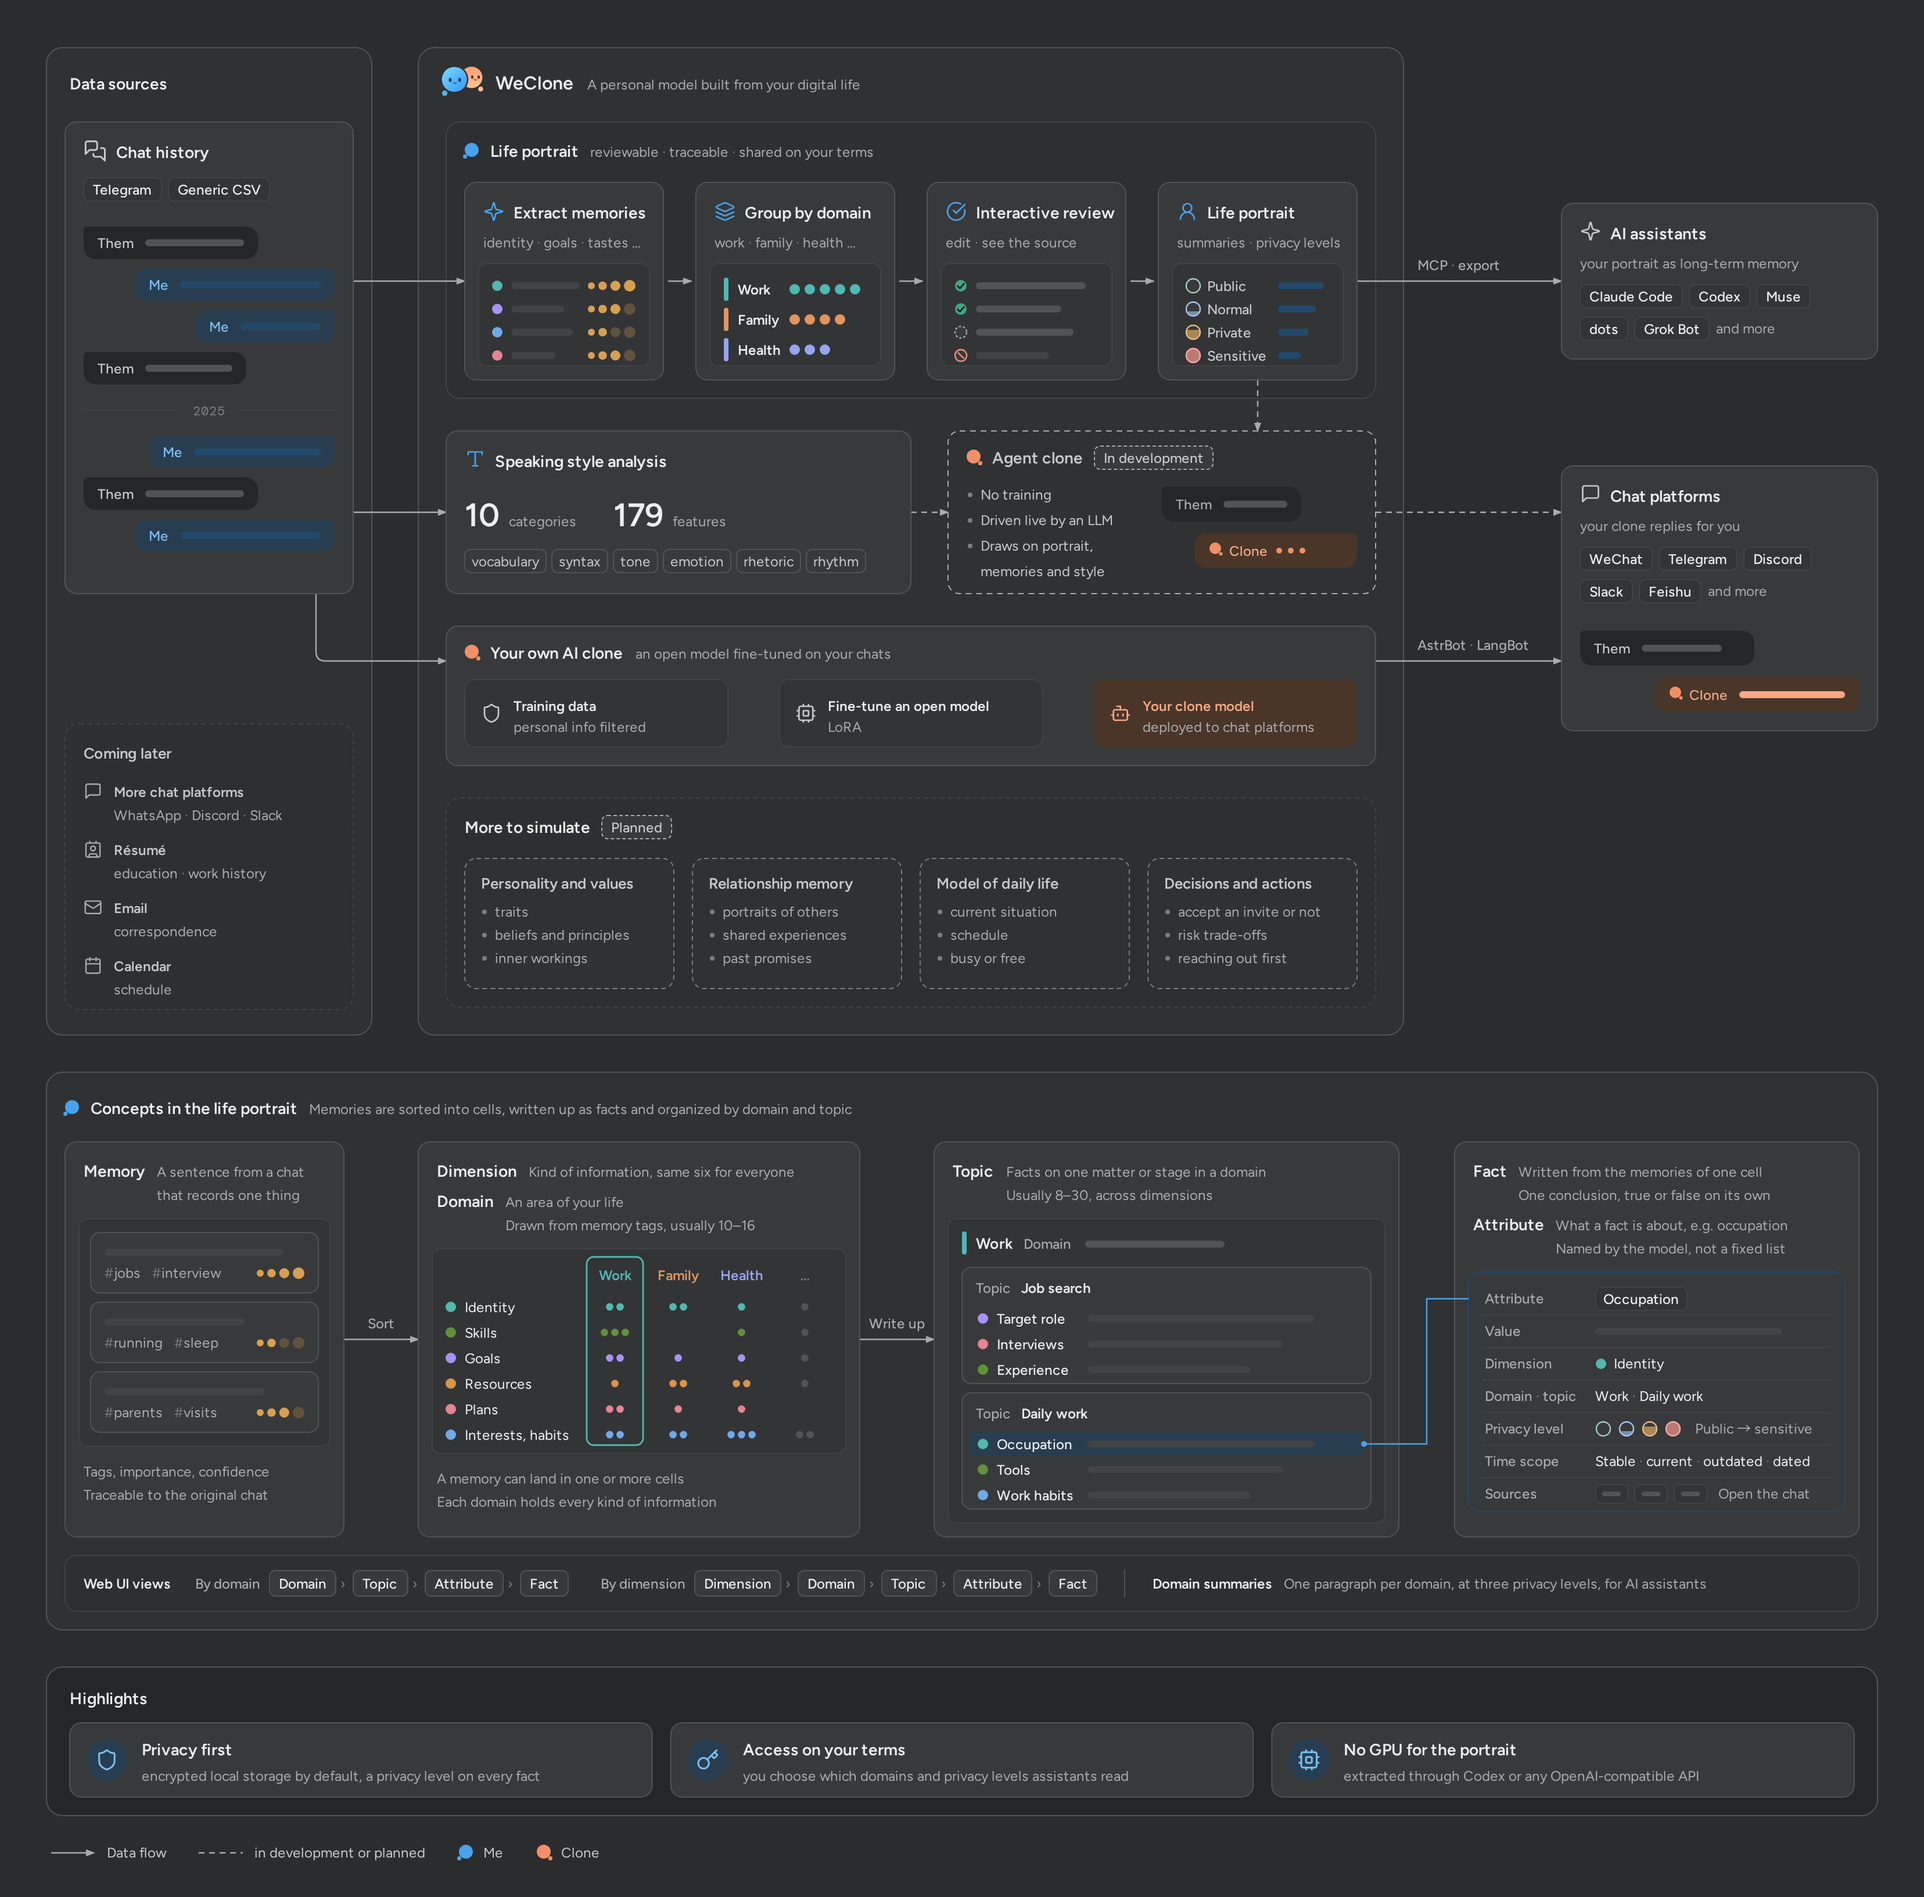
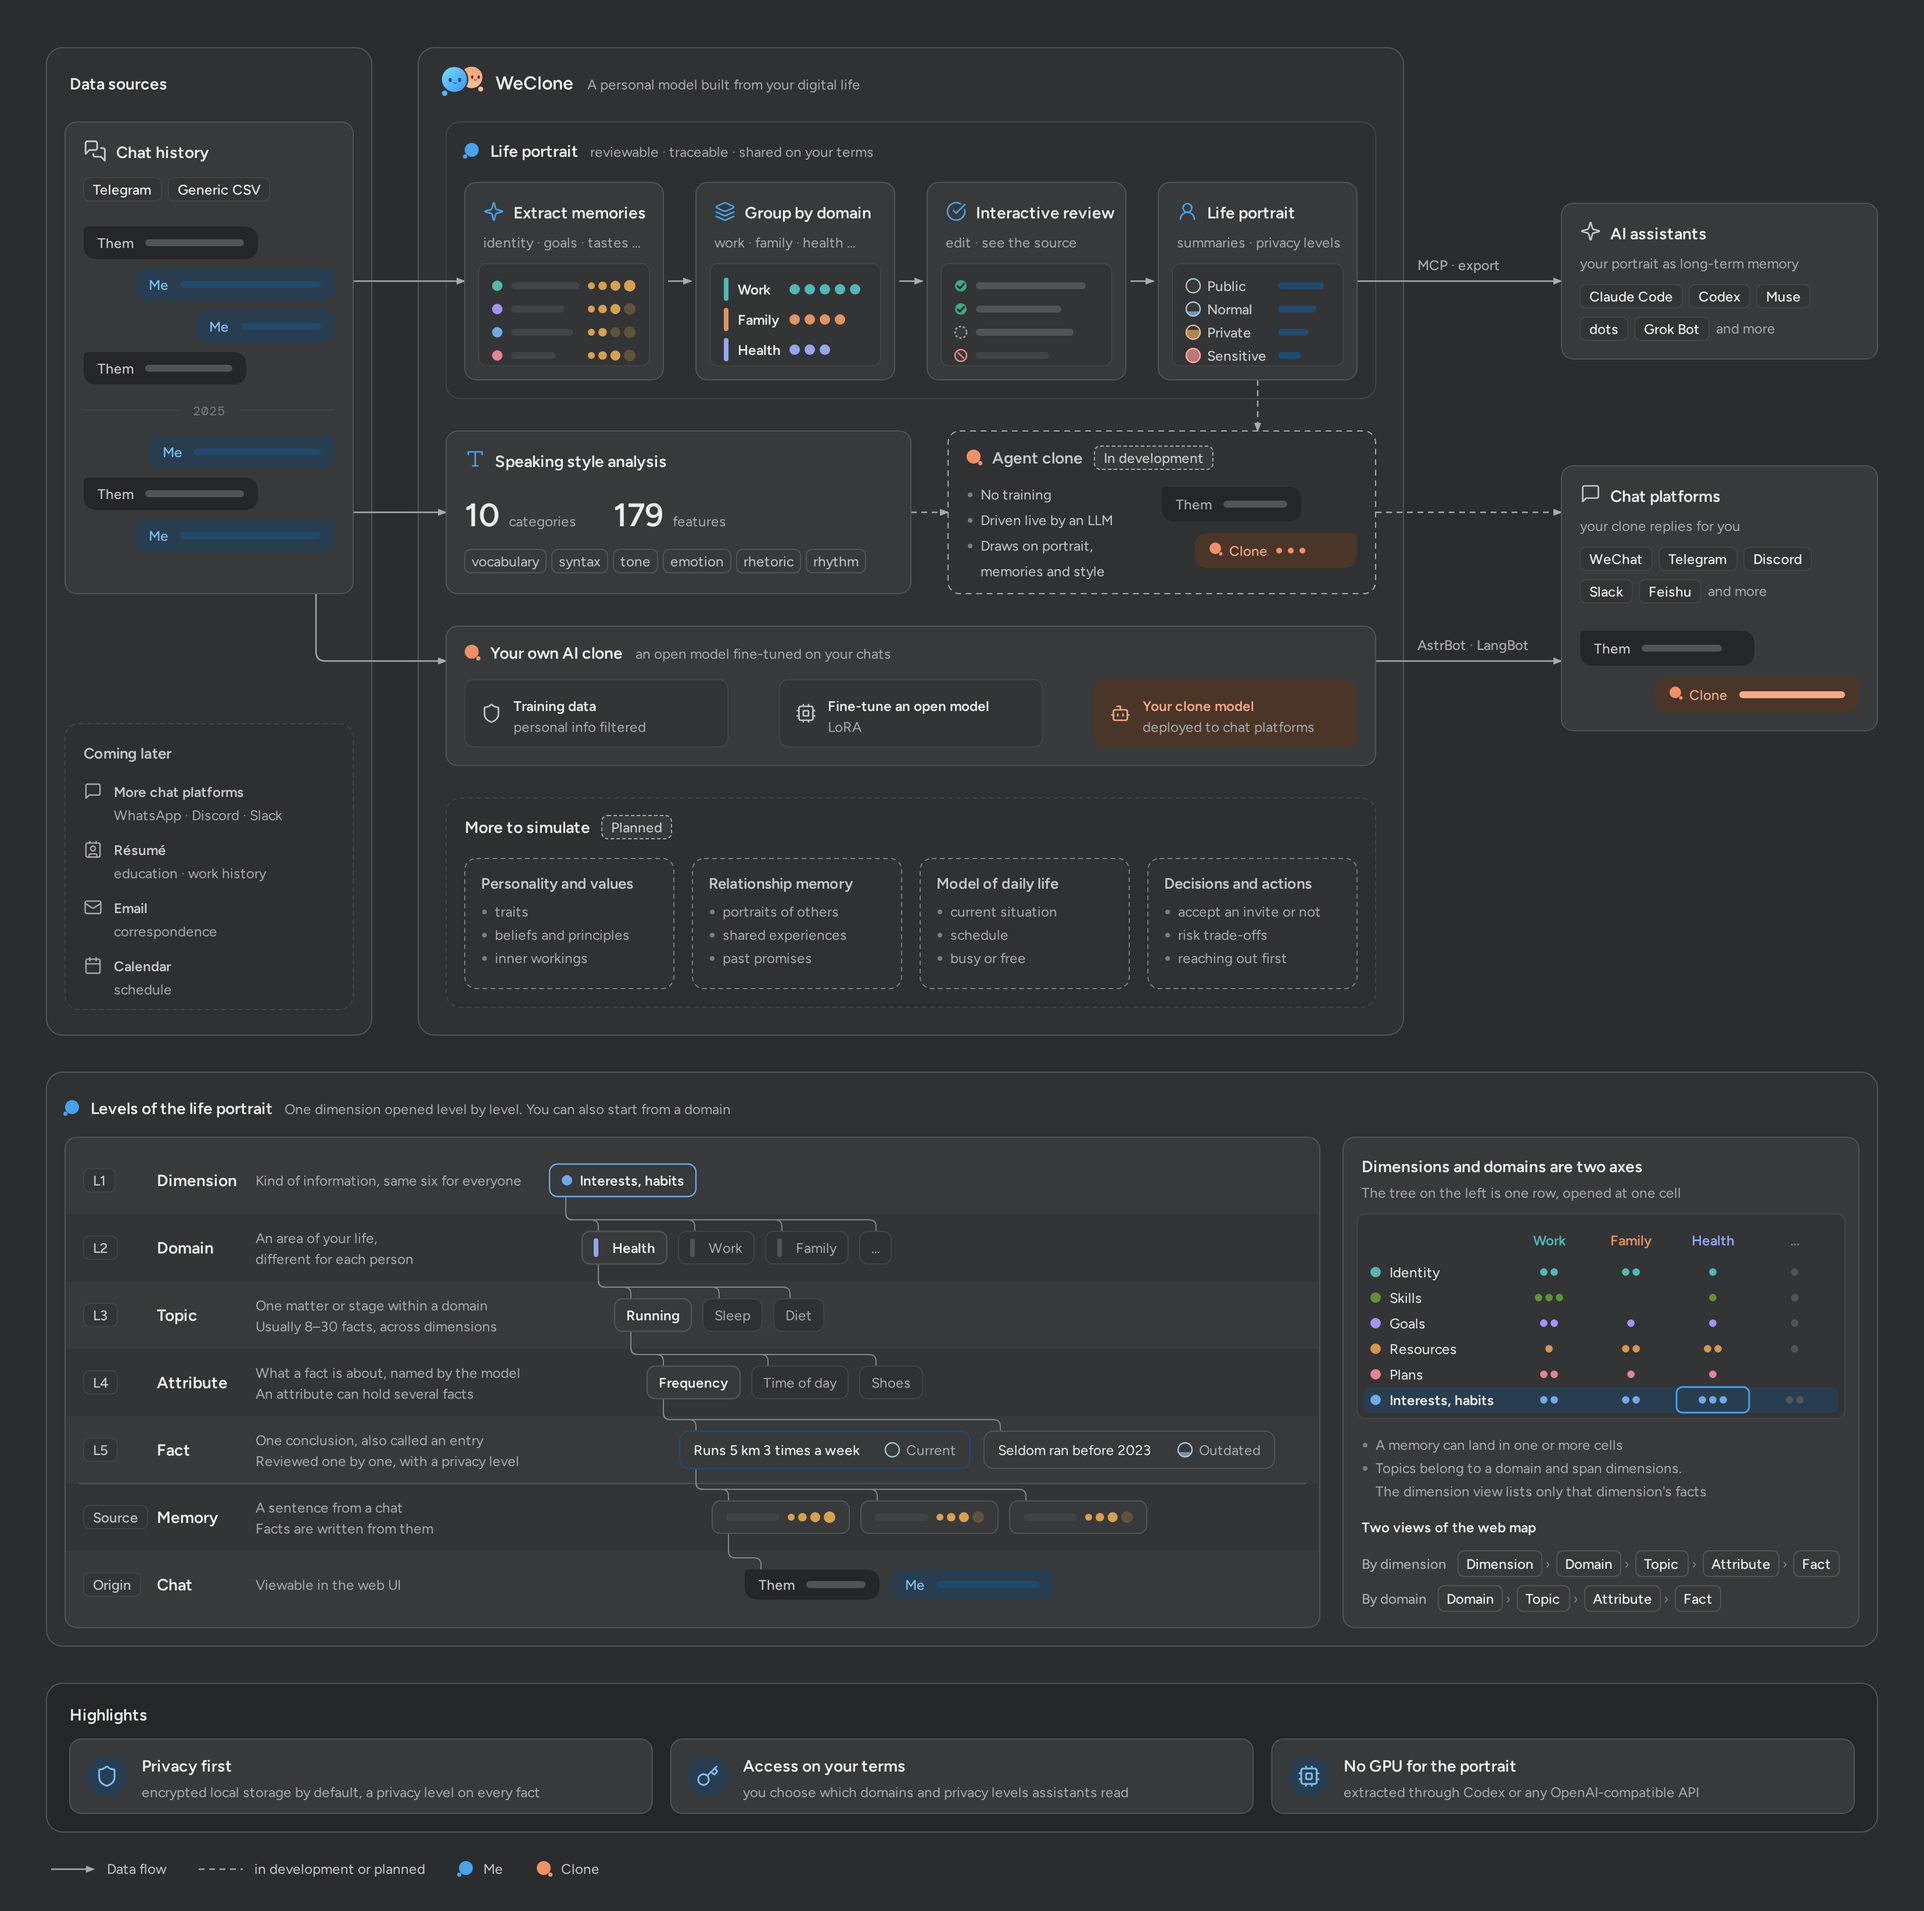
docs: show the portrait's levels as a tree in the overview figure
The concept band is now a tree that opens one dimension level by level:
dimension, domain (领域 in the prompts), topic, attribute and fact, with
the source memories and chats behind a fact. A side panel shows the
dimension × domain grid the tree is one row of.

diff --git a/docs/en/docs/introduce/architecture.md b/docs/en/docs/introduce/architecture.md
@@ -4,12 +4,12 @@ aside: false
 ---
 # Architecture
 
-## Overview and portrait concepts
+## Overview and portrait levels
 
-The top half is an overview of what WeClone does. The bottom half explains the concepts in the life portrait: what memories, dimensions, domains, topics, facts and attributes are, and how they relate. Click an image for the full-size version.
+The top half is an overview of what WeClone does. The bottom half opens one dimension level by level: dimension, domain, topic, attribute and fact, then the source memories and chats behind a fact. The panel on the right shows that dimensions and domains are two independent axes. Click an image for the full-size version.
 
-<a class="theme-light" href="/img/architecture/overview-light-en.webp" target="_blank"><img src="/img/architecture/overview-light-en.webp" alt="WeClone overview and portrait concepts"></a>
-<a class="theme-dark" href="/img/architecture/overview-dark-en.webp" target="_blank"><img src="/img/architecture/overview-dark-en.webp" alt="WeClone overview and portrait concepts"></a>
+<a class="theme-light" href="/img/architecture/overview-light-en.webp" target="_blank"><img src="/img/architecture/overview-light-en.webp" alt="WeClone overview and portrait levels"></a>
+<a class="theme-dark" href="/img/architecture/overview-dark-en.webp" target="_blank"><img src="/img/architecture/overview-dark-en.webp" alt="WeClone overview and portrait levels"></a>
 
 ## Modules and data flow
 

diff --git a/docs/zh/docs/introduce/architecture.md b/docs/zh/docs/introduce/architecture.md
@@ -4,12 +4,12 @@ aside: false
 ---
 # 架构
 
-## 功能概览与画像概念
+## 功能概览与画像层级
 
-上半部分是 WeClone 的功能概览，下半部分说明人生画像里的概念：记忆、维度、板块、主题、事实和属性分别是什么，彼此怎样关联。点击图片可查看大图。
+上半部分是 WeClone 的功能概览。下半部分以一个维度为起点逐级展开人生画像：维度、板块（即领域）、主题、属性、事实，以及事实背后的来源记忆和原始聊天，右侧说明维度和板块是两条互相独立的轴。点击图片可查看大图。
 
-<a class="theme-light" href="/img/architecture/overview-light.webp" target="_blank"><img src="/img/architecture/overview-light.webp" alt="WeClone 功能概览与画像概念"></a>
-<a class="theme-dark" href="/img/architecture/overview-dark.webp" target="_blank"><img src="/img/architecture/overview-dark.webp" alt="WeClone 功能概览与画像概念"></a>
+<a class="theme-light" href="/img/architecture/overview-light.webp" target="_blank"><img src="/img/architecture/overview-light.webp" alt="WeClone 功能概览与画像层级"></a>
+<a class="theme-dark" href="/img/architecture/overview-dark.webp" target="_blank"><img src="/img/architecture/overview-dark.webp" alt="WeClone 功能概览与画像层级"></a>
 
 ## 模块与数据流
 

diff --git a/docs/en/docs/introduce/what-is-weclone.md b/docs/en/docs/introduce/what-is-weclone.md
@@ -8,7 +8,7 @@ WeClone distills your identity, goals, preferences and current situation from yo
 <a class="theme-light" href="/img/architecture/overview-light-en.webp" target="_blank"><img src="/img/architecture/overview-compact-light-en.webp" alt="WeClone feature overview"></a>
 <a class="theme-dark" href="/img/architecture/overview-dark-en.webp" target="_blank"><img src="/img/architecture/overview-compact-dark-en.webp" alt="WeClone feature overview"></a>
 
-See [Architecture](./architecture.md) for the full overview, the concepts in the portrait and how each module works.
+See [Architecture](./architecture.md) for the full overview, the levels of the portrait and how each module works.
 
 ## Two routes
 

diff --git a/docs/zh/docs/introduce/what-is-weclone.md b/docs/zh/docs/introduce/what-is-weclone.md
@@ -8,7 +8,7 @@ WeClone 从你的数字生活中提炼身份、目标、偏好与近况，按工
 <a class="theme-light" href="/img/architecture/overview-light.webp" target="_blank"><img src="/img/architecture/overview-compact-light.webp" alt="WeClone 功能概览"></a>
 <a class="theme-dark" href="/img/architecture/overview-dark.webp" target="_blank"><img src="/img/architecture/overview-compact-dark.webp" alt="WeClone 功能概览"></a>
 
-完整的功能概览、画像里的概念和各模块的实现见[架构](./architecture.md)。
+完整的功能概览、画像的层级和各模块的实现见[架构](./architecture.md)。
 
 ## 两条路线
 

diff --git a/docs/en/docs/profile/build-profile.md b/docs/en/docs/profile/build-profile.md
@@ -53,7 +53,7 @@ Each fact belongs to a dimension and carries:
 
 No fact is dropped for privacy during extraction. Every fact is kept with a privacy level, and you decide who gets what when you [review](./review.md) and [connect assistants](./assistant.md).
 
-See the figure in [Architecture](../introduce/architecture.md) for how memories, dimensions, domains, topics, attributes and facts relate.
+See the figure in [Architecture](../introduce/architecture.md) for how dimensions, domains, topics, attributes and facts nest.
 
 ## Cache and reruns
 

diff --git a/docs/zh/docs/profile/build-profile.md b/docs/zh/docs/profile/build-profile.md
@@ -53,7 +53,7 @@ weclone-cli build-profile
 
 抽取时不会因为隐私删除事实，每条事实都保留下来并标注隐私级别。哪些内容提供给谁，在[审核](./review.md)和[接入助理](./assistant.md)时由你决定。
 
-记忆、维度、板块、主题、属性和事实之间的关系见[架构](../introduce/architecture.md)中的图。
+维度、板块、主题、属性、事实这几级怎样展开，见[架构](../introduce/architecture.md)中的图。
 
 ## 缓存与重跑
 
